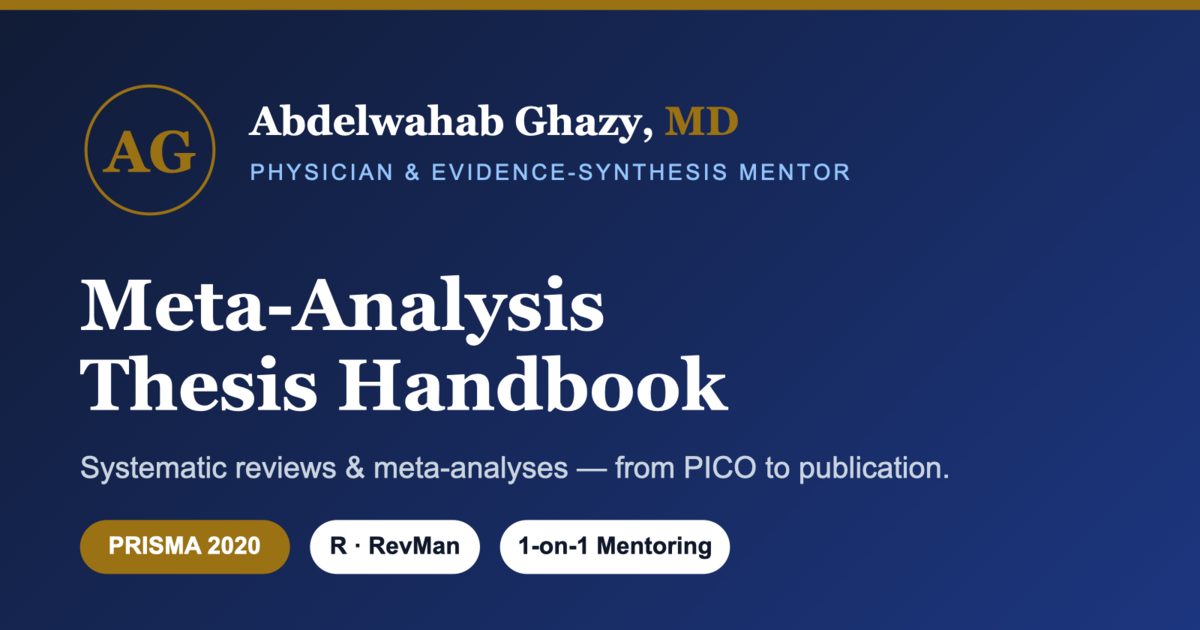
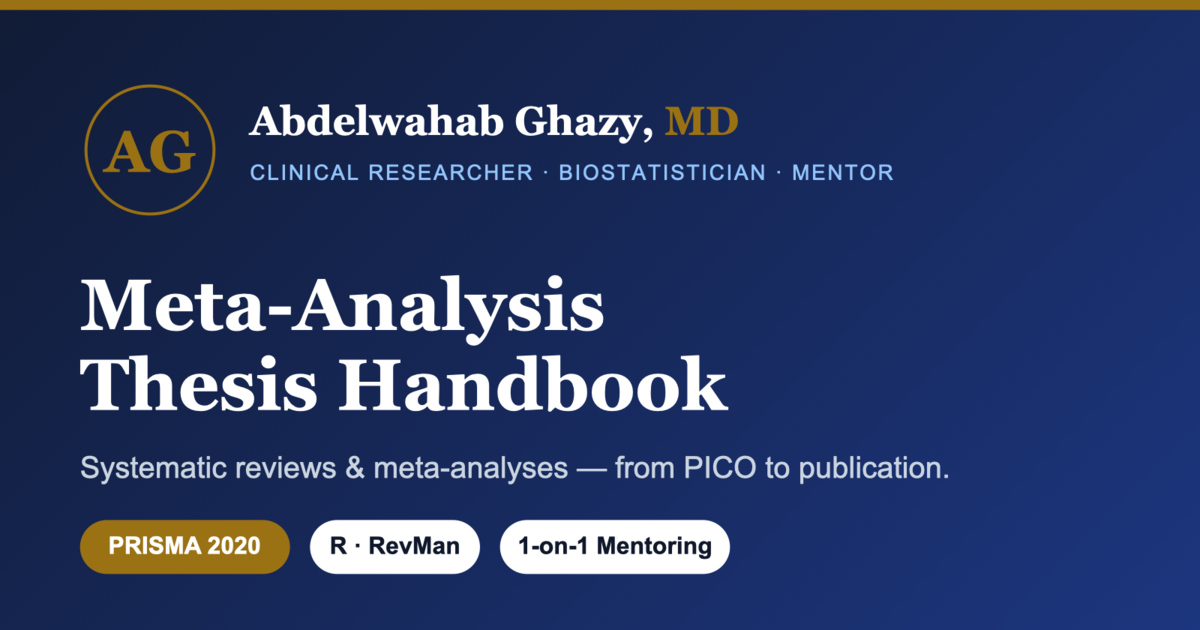
Add files via upload

Changed region(s): [[0.2158, 0.2413, 0.74, 0.3016]]

diff --git a/index.html b/index.html
@@ -33,7 +33,7 @@
         emailPrimary: "dr.abdelwahab.ghazy@gmail.com",
         emailAlt:     "dr.abdelwahab.ghazy@outlook.com",
         calendly:     "",                       // e.g. "https://calendly.com/your-name/intro-call"  (blank = button hidden)
-        web3formsKey: "3150b748-66f6-4144-839c-ca25e9ae4e93",                       // free key from https://web3forms.com  (blank = form falls back to opening email app)
+        web3formsKey: "3150b748-66f6-4144-839c-ca25e9ae4e93",   // free key from https://web3forms.com  (blank = form falls back to opening email app)
         social: {                               // paste full profile URLs; blank ones are hidden automatically
           linkedin:     "https://www.linkedin.com/in/abdelwahabghazymd/",
           researchgate: "",
@@ -51,7 +51,7 @@
       "@type": "Person",
       "name": "Abdelwahab Ghazy",
       "honorificSuffix": "MD",
-      "jobTitle": "Researcher & Biostatistician & Evidence-Synthesis Mentor",
+      "jobTitle": "Clinical Researcher, Biostatistician & Evidence-Synthesis Mentor",
       "email": "mailto:dr.abdelwahab.ghazy@gmail.com",
       "telephone": "+201030080342",
       "knowsAbout": ["Meta-analysis", "Systematic review", "PRISMA 2020", "Evidence synthesis", "Medical statistics"],
@@ -93,7 +93,7 @@
         body { font-family: 'Open Sans', system-ui, sans-serif; }
 
         /* Sidebar tab states (were referenced but never defined) */
-        .tab-active   { background:#ffffff; border-left:4px solid #1e40af; color:#0f172a; font-weight:700; }
+        .tab-active   { background:#ffffff; border-left:4px solid #9a7113; color:#0f172a; font-weight:700; }
         .tab-inactive { color:#475569; border-left:4px solid transparent; }
 
         /* Chart wrapper (was referenced but never defined) */
@@ -135,6 +135,14 @@
         /* hidden-until-configured helper */
         .cfg-hidden { display:none !important; }
 
+        /* ===== Visual polish ===== */
+        .site-header { background:linear-gradient(100deg,#0b1020 0%,#16285a 55%,#0b1020 100%); border-bottom:3px solid #9a7113; }
+        .hero-grad   { background:linear-gradient(135deg,#0f172a 0%,#1e3a8a 100%); }
+        .nav-ico     { width:1.15rem; height:1.15rem; flex-shrink:0; opacity:.75; transition:opacity .15s, color .15s; }
+        .tab-active .nav-ico { opacity:1; color:#9a7113; }
+        @keyframes fadeUp { from { opacity:0; transform:translateY(10px); } to { opacity:1; transform:none; } }
+        .tab-anim { animation:fadeUp .35s ease both; }
+
         @media print {
             .fab, #back-to-top { display:none !important; }
             .no-print { display:none !important; }
@@ -146,7 +154,7 @@
 <body class="bg-slate-100 text-slate-800 min-h-screen flex flex-col">
 
 <!-- ===================== HEADER (mobile menu lives here) ===================== -->
-<header class="bg-tanta-navy text-white no-print sticky top-0 z-30 shadow-lg">
+<header class="site-header text-white no-print sticky top-0 z-30 shadow-lg">
     <div class="max-w-6xl mx-auto px-6 py-4 flex items-center justify-between">
         <div class="flex items-center gap-3">
             <div class="w-11 h-11 rounded-full bg-tanta-gold/15 border border-tanta-gold flex items-center justify-center font-serif font-bold text-tanta-gold text-lg flex-shrink-0">TU</div>
@@ -179,42 +187,50 @@
             </div>
             <ul class="flex flex-col">
                 <li>
-                    <button onclick="switchTab('overview')" id="btn-overview" class="w-full text-left px-6 py-4 transition-colors tab-active hover:bg-white text-sm">
+                    <button onclick="switchTab('overview')" id="btn-overview" class="w-full text-left px-5 py-4 transition-colors tab-active hover:bg-white text-sm flex items-center gap-3">
+                        <svg class="nav-ico" fill="none" viewBox="0 0 24 24" stroke="currentColor" stroke-width="1.8"><path stroke-linecap="round" stroke-linejoin="round" d="M9 12h6m-6 4h6m2 4H7a2 2 0 01-2-2V5a2 2 0 012-2h5.586a1 1 0 01.707.293l5.414 5.414a1 1 0 01.293.707V19a2 2 0 01-2 2z"/></svg>
                         I. Scope &amp; Word Limits
                     </button>
                 </li>
                 <li class="border-t border-slate-100">
-                    <button onclick="switchTab('structure')" id="btn-structure" class="w-full text-left px-6 py-4 transition-colors tab-inactive hover:bg-white text-sm">
+                    <button onclick="switchTab('structure')" id="btn-structure" class="w-full text-left px-5 py-4 transition-colors tab-inactive hover:bg-white text-sm flex items-center gap-3">
+                        <svg class="nav-ico" fill="none" viewBox="0 0 24 24" stroke="currentColor" stroke-width="1.8"><path stroke-linecap="round" stroke-linejoin="round" d="M9 4v16M4 6a2 2 0 012-2h12a2 2 0 012 2v12a2 2 0 01-2 2H6a2 2 0 01-2-2z"/></svg>
                         II. Thesis Architecture
                     </button>
                 </li>
                 <li class="border-t border-slate-100">
-                    <button onclick="switchTab('methodology')" id="btn-methodology" class="w-full text-left px-6 py-4 transition-colors tab-inactive hover:bg-white text-sm">
+                    <button onclick="switchTab('methodology')" id="btn-methodology" class="w-full text-left px-5 py-4 transition-colors tab-inactive hover:bg-white text-sm flex items-center gap-3">
+                        <svg class="nav-ico" fill="none" viewBox="0 0 24 24" stroke="currentColor" stroke-width="1.8"><path stroke-linecap="round" stroke-linejoin="round" d="M9 5H7a2 2 0 00-2 2v12a2 2 0 002 2h10a2 2 0 002-2V7a2 2 0 00-2-2h-2M9 5a2 2 0 002 2h2a2 2 0 002-2M9 5a2 2 0 012-2h2a2 2 0 012 2m-6 9l2 2 4-4"/></svg>
                         III. PRISMA Compliance
                     </button>
                 </li>
                 <li class="border-t border-slate-100">
-                    <button onclick="switchTab('formatting')" id="btn-formatting" class="w-full text-left px-6 py-4 transition-colors tab-inactive hover:bg-white text-sm">
+                    <button onclick="switchTab('formatting')" id="btn-formatting" class="w-full text-left px-5 py-4 transition-colors tab-inactive hover:bg-white text-sm flex items-center gap-3">
+                        <svg class="nav-ico" fill="none" viewBox="0 0 24 24" stroke="currentColor" stroke-width="1.8"><path stroke-linecap="round" stroke-linejoin="round" d="M4 6h16M4 12h10M4 18h7"/></svg>
                         IV. Formatting Regulations
                     </button>
                 </li>
                 <li class="border-t border-slate-100">
-                    <button onclick="switchTab('admin')" id="btn-admin" class="w-full text-left px-6 py-4 transition-colors tab-inactive hover:bg-white text-sm">
+                    <button onclick="switchTab('admin')" id="btn-admin" class="w-full text-left px-5 py-4 transition-colors tab-inactive hover:bg-white text-sm flex items-center gap-3">
+                        <svg class="nav-ico" fill="none" viewBox="0 0 24 24" stroke="currentColor" stroke-width="1.8"><path stroke-linecap="round" stroke-linejoin="round" d="M9 20l-5.447-2.724A1 1 0 013 16.382V5.618a1 1 0 011.447-.894L9 7m0 13l6-3m-6 3V7m6 10l4.553 2.276A1 1 0 0021 18.382V7.618a1 1 0 00-.553-.894L15 4m0 13V4m0 0L9 7"/></svg>
                         V. TUREC &amp; Admin Roadmap
                     </button>
                 </li>
                 <li class="border-t border-slate-100">
-                    <button onclick="switchTab('workflow')" id="btn-workflow" class="w-full text-left px-6 py-4 transition-colors tab-inactive hover:bg-white text-sm">
+                    <button onclick="switchTab('workflow')" id="btn-workflow" class="w-full text-left px-5 py-4 transition-colors tab-inactive hover:bg-white text-sm flex items-center gap-3">
+                        <svg class="nav-ico" fill="none" viewBox="0 0 24 24" stroke="currentColor" stroke-width="1.8"><path stroke-linecap="round" stroke-linejoin="round" d="M10.325 4.317c.426-1.756 2.924-1.756 3.35 0a1.724 1.724 0 002.573 1.066c1.543-.94 3.31.826 2.37 2.37a1.724 1.724 0 001.065 2.572c1.756.426 1.756 2.924 0 3.35a1.724 1.724 0 00-1.066 2.573c.94 1.543-.826 3.31-2.37 2.37a1.724 1.724 0 00-2.572 1.065c-.426 1.756-2.924 1.756-3.35 0a1.724 1.724 0 00-2.573-1.066c-1.543.94-3.31-.826-2.37-2.37a1.724 1.724 0 00-1.065-2.572c-1.756-.426-1.756-2.924 0-3.35a1.724 1.724 0 001.066-2.573c-.94-1.543.826-3.31 2.37-2.37.996.608 2.296.07 2.572-1.065z"/><path stroke-linecap="round" stroke-linejoin="round" d="M15 12a3 3 0 11-6 0 3 3 0 016 0z"/></svg>
                         VI. Digital Workflow Toolkit
                     </button>
                 </li>
                 <li class="border-t border-slate-100">
-                    <button onclick="switchTab('resources')" id="btn-resources" class="w-full text-left px-6 py-4 transition-colors tab-inactive hover:bg-white text-sm">
+                    <button onclick="switchTab('resources')" id="btn-resources" class="w-full text-left px-5 py-4 transition-colors tab-inactive hover:bg-white text-sm flex items-center gap-3">
+                        <svg class="nav-ico" fill="none" viewBox="0 0 24 24" stroke="currentColor" stroke-width="1.8"><path stroke-linecap="round" stroke-linejoin="round" d="M12 6.253v13m0-13C10.832 5.477 9.246 5 7.5 5S4.168 5.477 3 6.253v13C4.168 18.477 5.754 18 7.5 18s3.332.477 4.5 1.253m0-13C13.168 5.477 14.754 5 16.5 5c1.747 0 3.332.477 4.5 1.253v13C19.832 18.477 18.247 18 16.5 18c-1.746 0-3.332.477-4.5 1.253"/></svg>
                         VII. Tutorial &amp; Resource Library
                     </button>
                 </li>
                 <li class="border-t border-slate-100">
-                    <button onclick="switchTab('author')" id="btn-author" class="w-full text-left px-6 py-4 transition-colors tab-inactive hover:bg-white text-sm">
+                    <button onclick="switchTab('author')" id="btn-author" class="w-full text-left px-5 py-4 transition-colors tab-inactive hover:bg-white text-sm flex items-center gap-3">
+                        <svg class="nav-ico" fill="none" viewBox="0 0 24 24" stroke="currentColor" stroke-width="1.8"><path stroke-linecap="round" stroke-linejoin="round" d="M16 7a4 4 0 11-8 0 4 4 0 018 0zM12 14a7 7 0 00-7 7h14a7 7 0 00-7-7z"/></svg>
                         VIII. About the Author
                     </button>
                 </li>
@@ -223,7 +239,7 @@
                 <p class="text-xs text-tanta-gold font-bold uppercase tracking-wide mb-1">Critical Notice</p>
                 <p class="text-xs text-slate-800 font-serif leading-relaxed">Ensure your protocol is registered with the institutional ethical committee before initiating data extraction.</p>
             </div>
-            <button onclick="switchTab('author')" class="m-6 mt-0 w-[calc(100%-3rem)] text-left p-4 border border-tanta-blue bg-tanta-navy hover:bg-tanta-blue transition-colors rounded hidden md:block group">
+            <button onclick="switchTab('author')" class="m-6 mt-0 w-[calc(100%-3rem)] text-left p-4 border border-tanta-blue hero-grad hover:opacity-95 transition-opacity rounded hidden md:block group">
                 <p class="text-xs text-tanta-gold font-bold uppercase tracking-wide mb-1">Need 1-on-1 help?</p>
                 <p class="text-sm text-white font-serif leading-relaxed">Get personal mentoring on your meta-analysis &mdash; from PICO to publication.</p>
                 <span class="text-xs text-blue-200 font-semibold mt-2 inline-block group-hover:translate-x-1 transition-transform">Contact Dr. Ghazy &rarr;</span>
@@ -233,6 +249,19 @@
 
     <main class="flex-grow p-6 md:p-10 w-full max-w-4xl overflow-hidden">
         <section id="sec-overview" class="block">
+            <!-- Welcome banner -->
+            <div class="hero-grad text-white rounded-xl p-6 md:p-8 mb-10 shadow-lg">
+                <p class="text-xs text-tanta-gold font-bold uppercase tracking-widest mb-2">Tanta University &middot; Faculty of Medicine</p>
+                <h2 class="font-serif text-2xl md:text-3xl font-bold leading-tight mb-3">Your complete guide to a meta-analysis thesis</h2>
+                <p class="text-slate-200 text-sm md:text-base max-w-2xl leading-relaxed">
+                    From your first research question to a bound thesis and a published paper &mdash; an interactive, PRISMA&nbsp;2020-compliant roadmap built for postgraduate physicians, with optional 1-on-1 mentoring from Dr. Abdelwahab Ghazy.
+                </p>
+                <div class="mt-5 flex flex-wrap gap-3">
+                    <button onclick="switchTab('resources')" class="bg-white/10 hover:bg-white/20 border border-white/25 text-white text-sm font-semibold px-4 py-2 rounded-lg transition-colors">Browse the resource library</button>
+                    <button onclick="switchTab('author')" class="bg-tanta-gold hover:bg-tanta-gold/80 text-white text-sm font-semibold px-4 py-2 rounded-lg transition-colors">Work with me &rarr;</button>
+                </div>
+            </div>
+
             <div class="border-b border-slate-300 pb-4 mb-8">
                 <p class="text-sm text-tanta-blue font-bold tracking-widest uppercase mb-1">Section I</p>
                 <h2 class="font-serif text-3xl font-bold text-tanta-navy">Scope &amp; Length Expectations</h2>
@@ -717,11 +746,11 @@
             </div>
 
             <!-- Hero -->
-            <div class="bg-tanta-navy text-white rounded-xl p-8 shadow-lg flex flex-col sm:flex-row items-center gap-6 mb-10">
+            <div class="hero-grad text-white rounded-xl p-8 shadow-lg flex flex-col sm:flex-row items-center gap-6 mb-10">
                 <div class="w-28 h-28 rounded-full bg-tanta-gold/15 border-2 border-tanta-gold flex items-center justify-center font-serif font-bold text-tanta-gold text-4xl flex-shrink-0">AG</div>
                 <div class="text-center sm:text-left">
                     <h3 class="font-serif text-2xl md:text-3xl font-bold">Abdelwahab Ghazy, <span class="text-tanta-gold">MD</span></h3>
-                    <p class="text-blue-200 mt-1 text-sm uppercase tracking-widest">Physician &amp; Evidence-Synthesis Mentor</p>
+                    <p class="text-blue-200 mt-1 text-sm uppercase tracking-widest">Clinical Researcher &middot; Biostatistician &middot; Evidence-Synthesis Mentor</p>
                     <p class="text-slate-200 mt-4 leading-relaxed text-sm max-w-xl">
                         I help postgraduate physicians and researchers turn a clinical question into a published systematic review or meta-analysis &mdash; guiding every step from PICO formulation and PROSPERO registration through statistical synthesis, thesis writing, and journal submission, in full compliance with PRISMA 2020 and Tanta University standards.
                     </p>
@@ -853,7 +882,7 @@
                         <span class="font-semibold text-tanta-navy text-sm pr-4">How long does a meta-analysis usually take?</span>
                         <svg class="faq-chev w-5 h-5 text-tanta-blue flex-shrink-0" fill="none" viewBox="0 0 24 24" stroke="currentColor" stroke-width="2"><path stroke-linecap="round" stroke-linejoin="round" d="M19 9l-7 7-7-7"/></svg>
                     </div>
-                    <div class="faq-a"><p class="px-4 pb-4 text-sm text-slate-600 leading-relaxed">Typically 1&ndash;3months depending on the number of studies, your availability, and whether the data needs extensive extraction. I give you a realistic timeline up front.</p></div>
+                    <div class="faq-a"><p class="px-4 pb-4 text-sm text-slate-600 leading-relaxed">Typically 1&ndash;3 months depending on the number of studies, your availability, and whether the data needs extensive extraction. I give you a realistic timeline up front.</p></div>
                 </div>
                 <div class="faq-item bg-white border border-slate-200 rounded-lg overflow-hidden">
                     <div class="faq-q flex items-center justify-between p-4">
@@ -962,7 +991,7 @@
 </button>
 
 <!-- Mobile sticky action bar (phones only) -->
-<div class="md:hidden fixed bottom-0 inset-x-0 z-40 no-print flex shadow-[0_-4px_20px_-6px_rgba(0,0,0,.35)]">
+<div class="md:hidden fixed bottom-0 inset-x-0 z-40 no-print flex rounded-t-2xl overflow-hidden shadow-[0_-4px_20px_-6px_rgba(0,0,0,.35)]">
     <a data-wa class="flex-1 flex items-center justify-center gap-2 bg-green-500 active:bg-green-600 text-white font-semibold py-3.5 text-sm">
         <svg xmlns="http://www.w3.org/2000/svg" class="w-5 h-5" viewBox="0 0 24 24" fill="currentColor"><path d="M.057 24l1.687-6.163a11.867 11.867 0 01-1.587-5.946C.16 5.335 5.495 0 12.05 0a11.82 11.82 0 018.413 3.488 11.82 11.82 0 013.48 8.414c-.003 6.557-5.338 11.892-11.893 11.892a11.9 11.9 0 01-5.688-1.448L.057 24zm6.597-3.807c1.676.995 3.276 1.591 5.392 1.592 5.448 0 9.886-4.434 9.889-9.885.002-5.462-4.415-9.89-9.881-9.892-5.452 0-9.887 4.434-9.889 9.884a9.86 9.86 0 001.515 5.26l-.999 3.648 3.974-1.039z"/></svg>
         WhatsApp
@@ -1101,8 +1130,10 @@
             btn.classList.add('tab-inactive');
         });
 
-        document.getElementById(`sec-${tabId}`).classList.remove('hidden');
-        document.getElementById(`sec-${tabId}`).classList.add('block');
+        const shownSec = document.getElementById(`sec-${tabId}`);
+        shownSec.classList.remove('hidden');
+        shownSec.classList.add('block');
+        shownSec.classList.remove('tab-anim'); void shownSec.offsetWidth; shownSec.classList.add('tab-anim');
 
         const activeBtn = document.getElementById(`btn-${tabId}`);
         activeBtn.classList.remove('tab-inactive');
